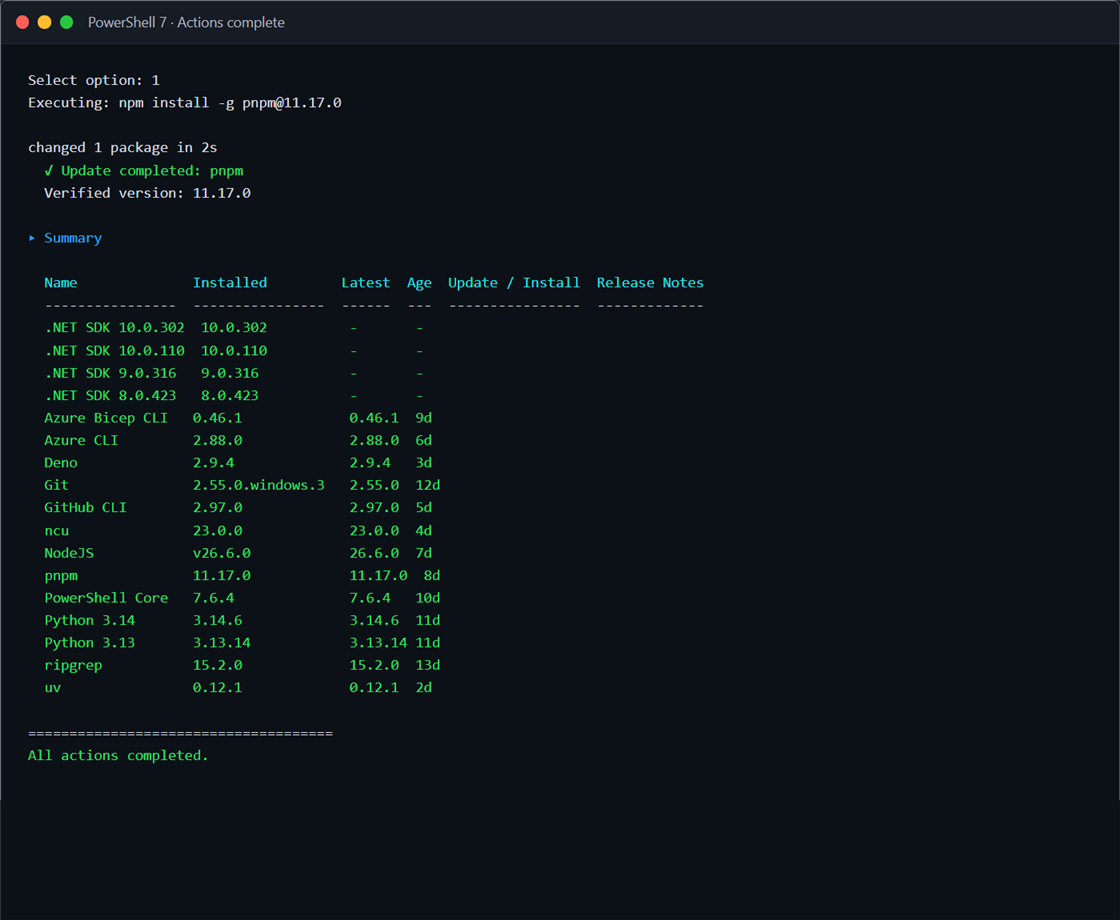
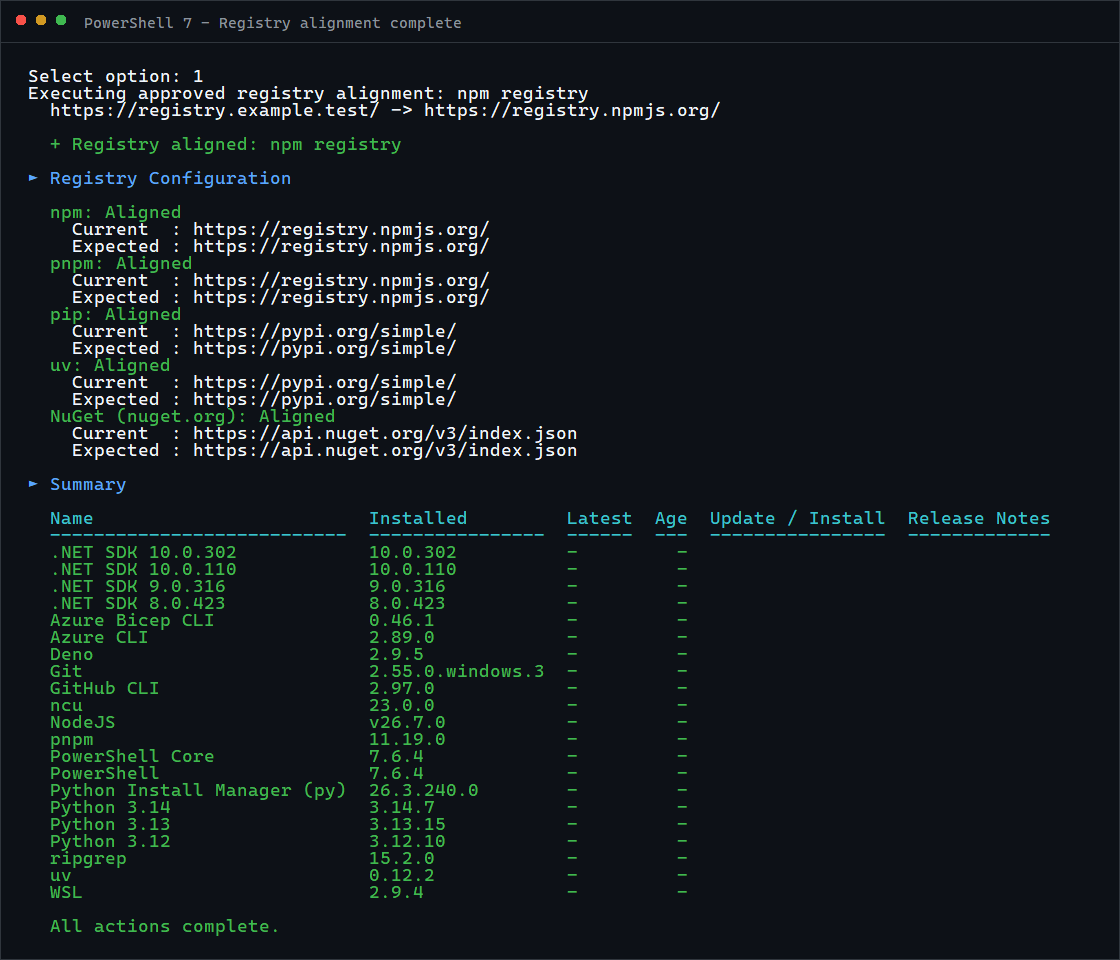
Update screenshots

diff --git a/README.md b/README.md
@@ -17,13 +17,13 @@ Tool Checker supports Windows and Linux on AMD64 and ARM64. Some configured tool
 
 ## See it in action
 
-The following screenshots show Tool Checker `1.0.0` starting in check-only mode, reporting a consolidated inventory, and refreshing the summary after a selected update completes.
+The following screenshots show Tool Checker `1.1.1` validating registry policy in check-only mode, reporting a consolidated inventory, and refreshing the registry checks after an explicitly approved alignment.
 
-![Tool Checker starting parallel checks and reporting detected tools](docs/assets/tool-checker-execution.png)
+![Tool Checker validating npm, pnpm, pip, uv, and NuGet registry configuration before starting parallel checks](docs/assets/tool-checker-execution.png)
 
-![Tool Checker completed inventory summary](docs/assets/tool-checker-summary.png)
+![Tool Checker completed inventory summary with aligned registry checks](docs/assets/tool-checker-summary.png)
 
-![Tool Checker post-execution summary after a completed update](docs/assets/tool-checker-post-execution-summary.png)
+![Tool Checker registry checks and summary after an explicitly approved registry alignment](docs/assets/tool-checker-post-execution-summary.png)
 
 ## Requirements
 
